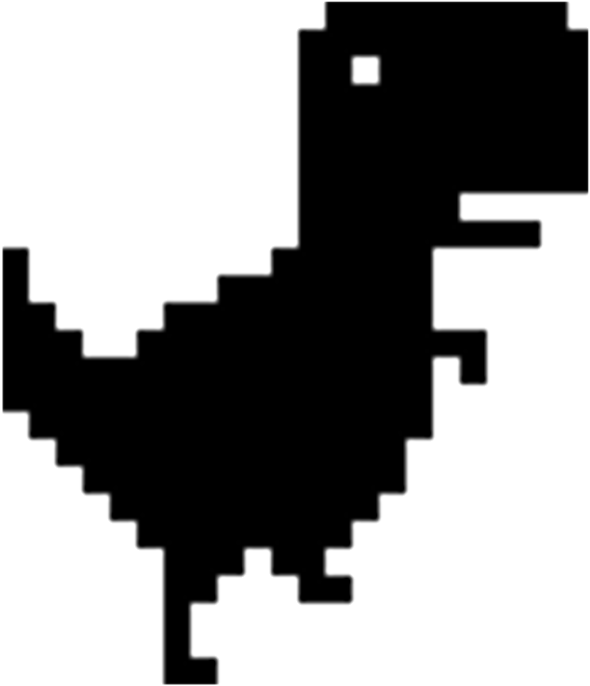
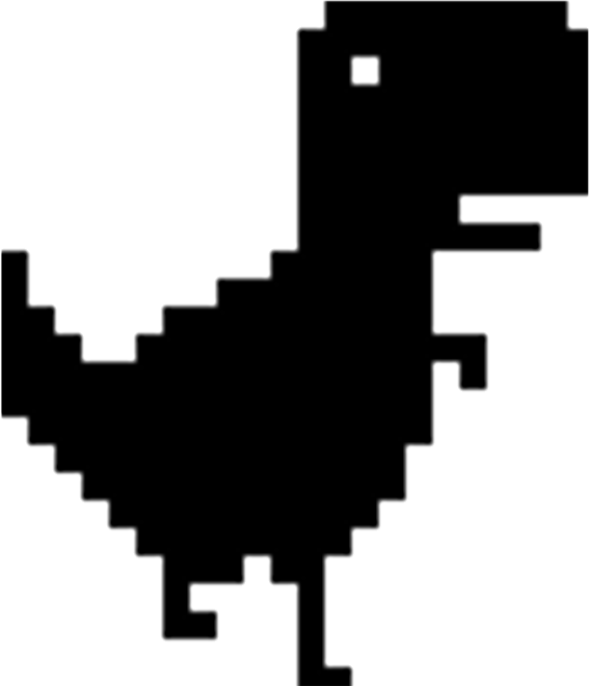
Feat : DinoGame Image

diff --git a/src/components/DinoGame.vue b/src/components/DinoGame.vue
@@ -21,14 +21,26 @@ let TrexFrame = null;
 
 const canvas = ref();
 
+const dinoStand = new Image();
+const dinoLeft = new Image();
+const dinoRight = new Image();
+const dinoJump = new Image();
+const cactusImg = new Image();
+dinoLeft.src = '/src/assets/dino1.png';
+dinoRight.src = '/src/assets/dino2.png';
+dinoJump.src = '/src/assets/dinoJump.png';
+dinoStand.src = '/src/assets/dino0.png';
+cactusImg.src = '/src/assets/cactus.png';
+
 const createCanvas = () => {
   const ctx = canvas.value.getContext('2d');
 
   canvas.width = window.innerWidth - 100;
   canvas.height = window.innerHeight - 100;
 
-  const imgSet = new Image();
-  imgSet.src = '/src/assets/dino0.png';
+  const drawDino = (dino, img) => {
+    ctx.drawImage(img, 0, 0, 590, 686, dino.x, dino.y, dino.width, dino.height);
+  };
 
   const dino = {
     x: gameStats.positX,
@@ -36,19 +48,15 @@ const createCanvas = () => {
     width: 50,
     height: gameStats.charHeight,
     draw() {
-      ctx.fillStyle = 'brown';
-      // ctx.fillRect(this.x, this.y, this.width, this.height);
-      ctx.drawImage(
-        imgSet,
-        0,
-        0,
-        590,
-        686,
-        this.x,
-        this.y,
-        this.width,
-        this.height
-      );
+      if (!gameStats.start) {
+        drawDino(this, dinoStand);
+      } else if (jumpState) {
+        drawDino(this, dinoJump);
+      } else if (timer % 10 < 5) {
+        drawDino(this, dinoLeft);
+      } else {
+        drawDino(this, dinoRight);
+      }
     },
   };
 
@@ -59,25 +67,25 @@ const createCanvas = () => {
       width: 25,
       height: gameStats.charHeight,
       draw() {
-        ctx.fillStyle = 'green';
-        ctx.fillRect(this.x, this.y, this.width, this.height);
-        // ctx.drawImage(
-        //   imgSet,
-        //   2820,
-        //   0,
-        //   400,
-        //   700,
-        //   this.x,
-        //   this.y,
-        //   this.width,
-        //   this.height
-        // );
+        // ctx.fillStyle = 'green';
+        // ctx.fillRect(this.x, this.y, this.width, this.height);
+        ctx.drawImage(
+          cactusImg,
+          0,
+          0,
+          369,
+          723,
+          this.x,
+          this.y,
+          this.width,
+          this.height
+        );
       },
     };
   };
 
   function updateCactuses() {
-    if (timer % 150 === 0) {
+    if (timer % 120 === 0) {
       const cactus = newCactus();
       cactusArr.push(cactus);
     }
@@ -132,18 +140,17 @@ const createCanvas = () => {
   }
 
   const collisionDetection = (dino, cactus) => {
-    let xValue = cactus.x - (dino.x + dino.width);
-    let yValue = cactus.y - (dino.y + dino.height);
-    if (xValue < 0 && yValue < 0) {
-      if (cactus.x + cactus.width > dino.x) {
-        alert('게임오버');
-        gameStats.start = false;
-        cancelAnimationFrame(TrexFrame);
-        jumpState = false;
-        timer = 0;
-        ctx.clearRect(0, 0, canvas.width, canvas.height);
-        return -1;
-      }
+    const xValue1 = cactus.x - (dino.x + dino.width);
+    const xValue2 = cactus.x + cactus.width - dino.x;
+    const yValue = cactus.y - (dino.y + dino.height);
+    if (xValue1 < 0 && xValue2 > 0 && yValue < 0) {
+      alert('게임오버');
+      gameStats.start = false;
+      cancelAnimationFrame(TrexFrame);
+      jumpState = false;
+      timer = 0;
+      ctx.clearRect(0, 0, canvas.width, canvas.height);
+      return -1;
     } else {
       return 1;
     }
@@ -163,7 +170,31 @@ document.addEventListener('keydown', (e) => {
   }
 });
 
-onMounted(() => {});
+onMounted(() => {
+  const ctx = canvas.value.getContext('2d');
+
+  dinoStand.onload = () => {
+    ctx.font = '48px serif';
+    ctx.fillText('Space Bar를 눌러 게임을 시작하세요.', 100, 100);
+
+    ctx.beginPath();
+    ctx.moveTo(20, gameStats.ground);
+    ctx.lineTo(1060, gameStats.ground);
+    ctx.stroke();
+
+    ctx.drawImage(
+      dinoStand,
+      0,
+      0,
+      590,
+      686,
+      gameStats.positX,
+      gameStats.ground - gameStats.charHeight,
+      50,
+      gameStats.charHeight
+    );
+  };
+});
 </script>
 
 <style scoped>

diff --git a/index.html b/index.html
@@ -1,10 +1,10 @@
-<!doctype html>
+<!DOCTYPE html>
 <html lang="en">
   <head>
     <meta charset="UTF-8" />
-    <link rel="icon" type="image/svg+xml" href="/vite.svg" />
+    <link rel="icon" type="image/png" href="/game.png" />
     <meta name="viewport" content="width=device-width, initial-scale=1.0" />
-    <title>Vite + Vue</title>
+    <title>Canvas Games</title>
   </head>
   <body>
     <div id="app"></div>

diff --git a/src/App.vue b/src/App.vue
@@ -1,9 +1,9 @@
 <script setup>
-import HelloWorld from './components/HelloWorld.vue';
+import DinoGame from './components/DinoGame.vue';
 </script>
 
 <template>
-  <HelloWorld msg="Vite + Vue" />
+  <DinoGame />
 </template>
 
 <style scoped>
